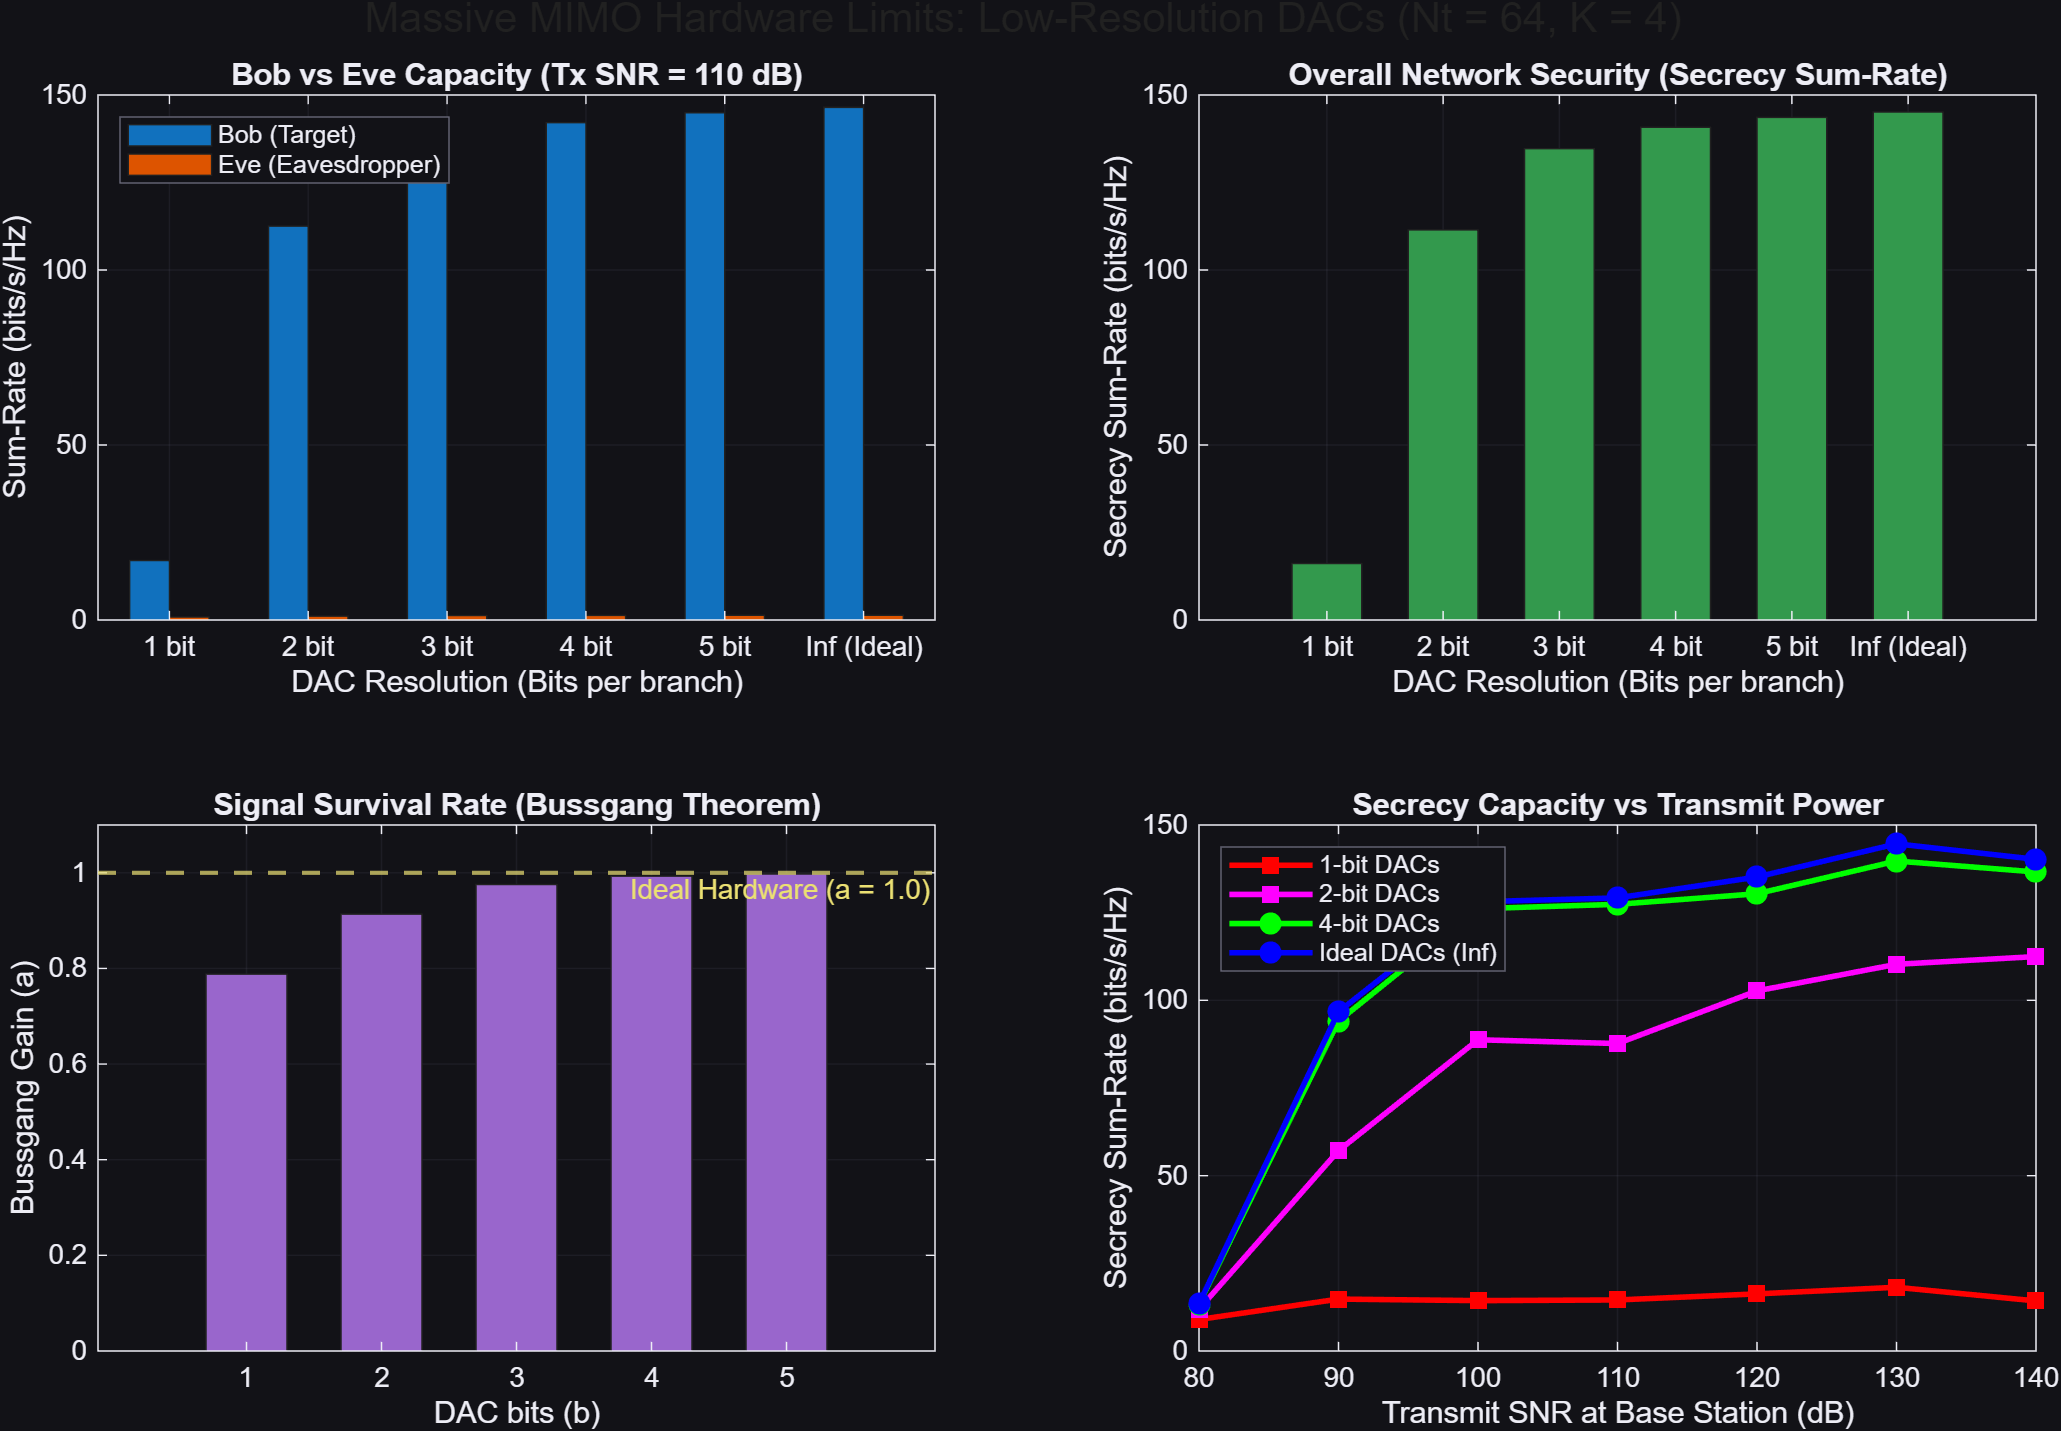
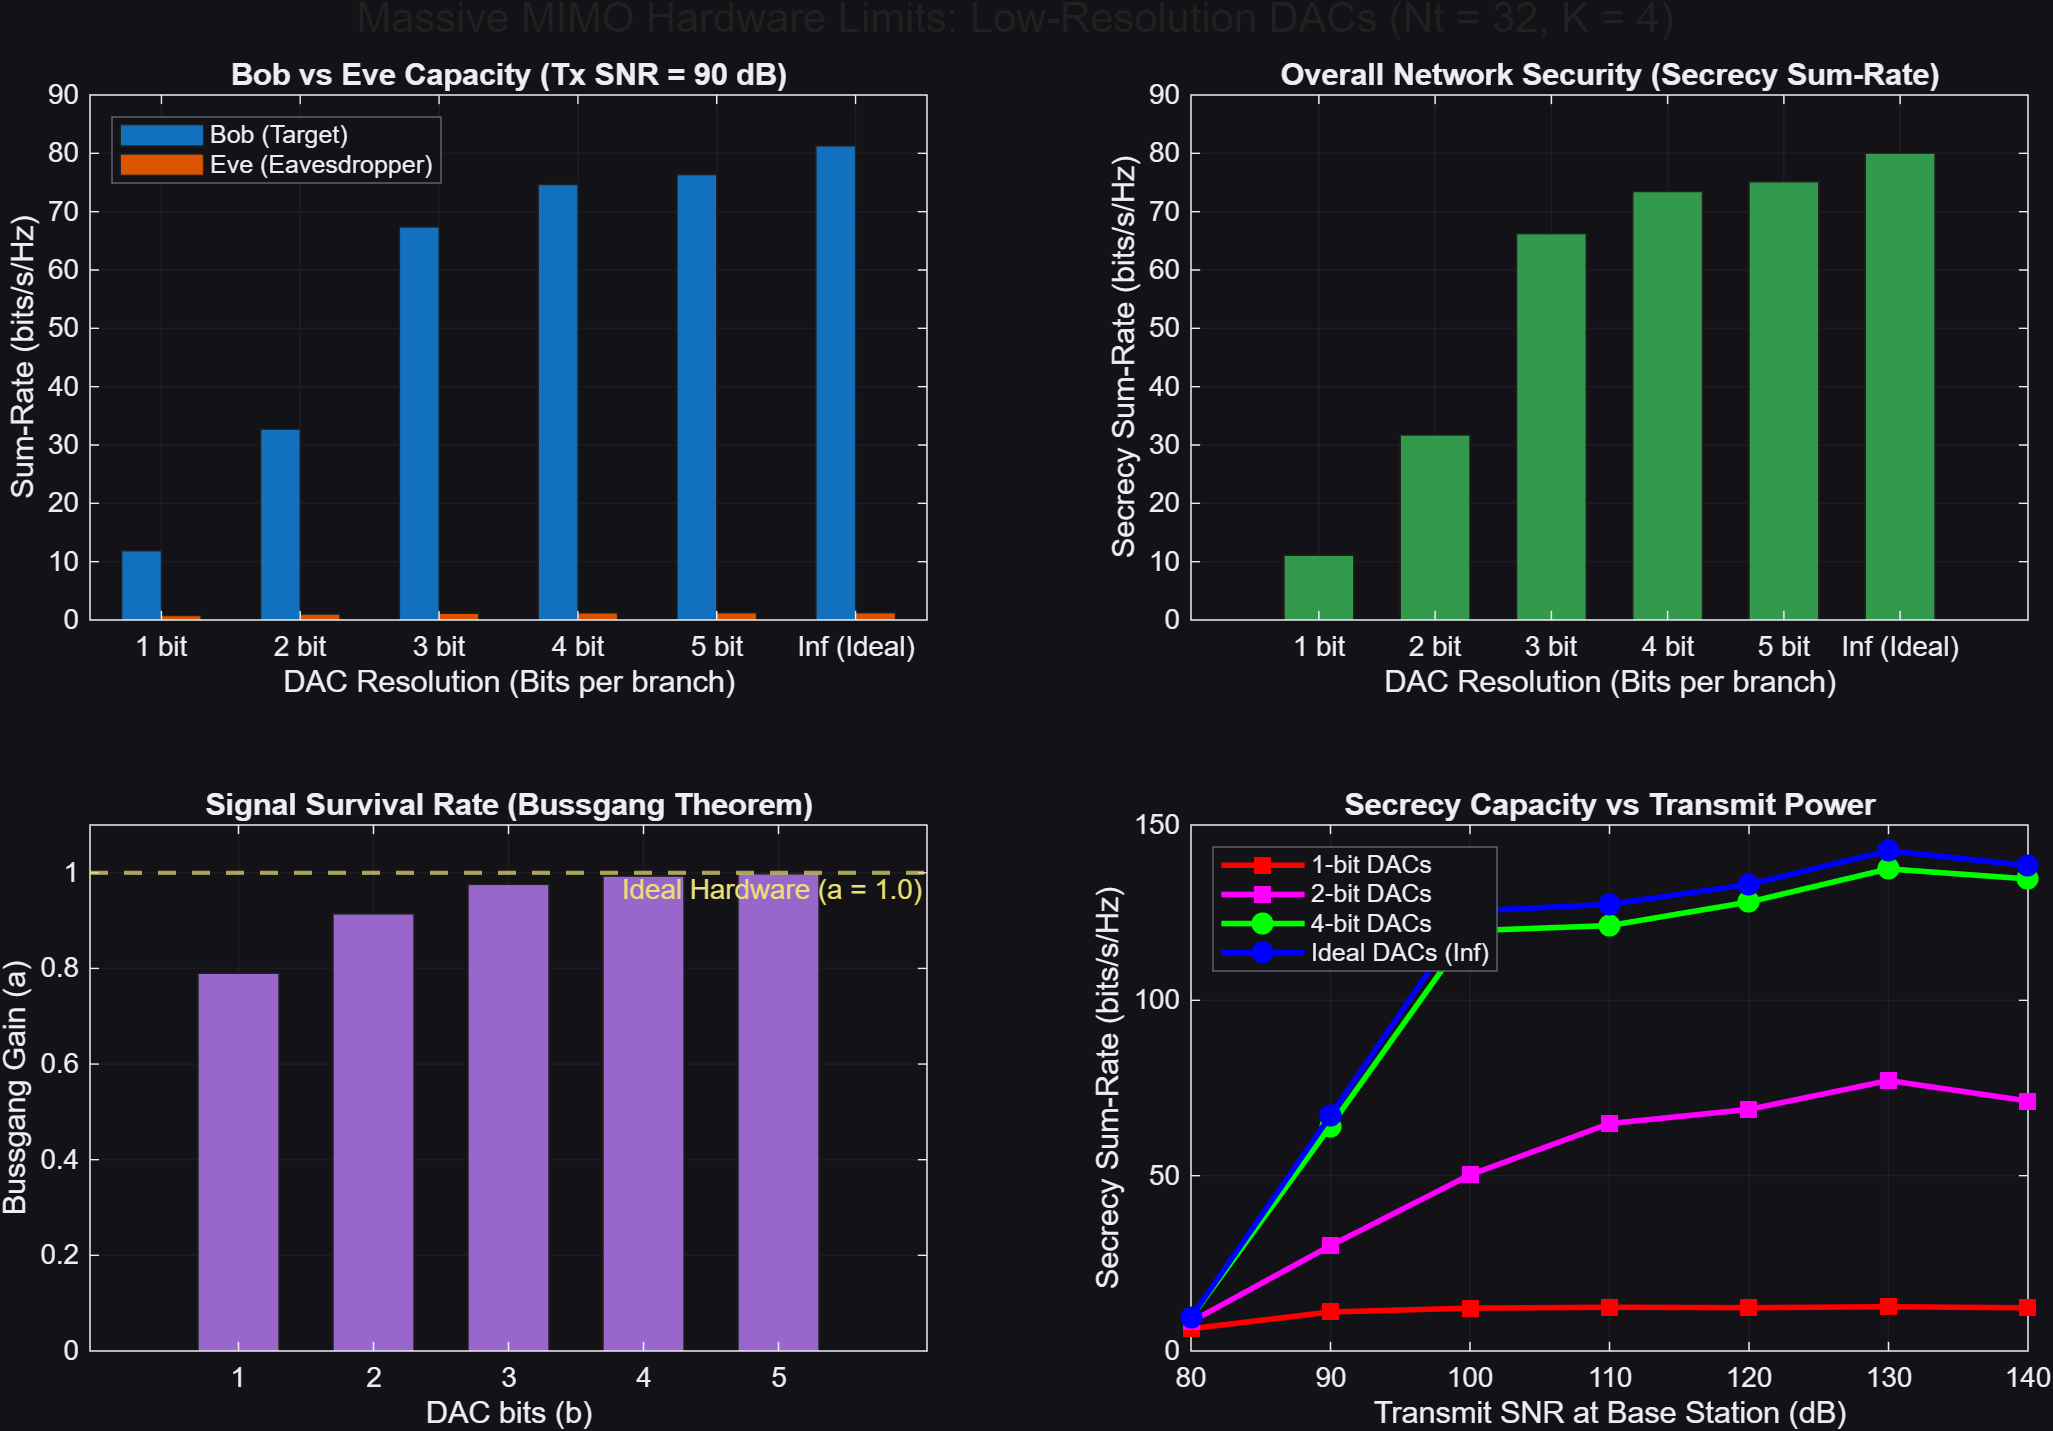
low_res_dac: topology, code, results update

diff --git a/simulations/sim_low_res_dac.m b/simulations/sim_low_res_dac.m
@@ -14,7 +14,7 @@ rng(p.rng_seed);
 b_vec       = [1 2 3 4 5 Inf];               % Rozdzielczość DAC [bity]
 b_show      = [1, 2, 4, Inf];                % Wybrane bity dla Sweepu B
 SNR_tx_vec  = 80:10:140;                     % Transmit SNR sweep [dB]
-SNR_fixed   = 110;                           % Stały SNR_tx dla Sweepu A
+SNR_fixed   = 90;                           % Stały SNR_tx dla Sweepu A
 Nt          = 32;                            % Liczba anten (Massive MIMO)
 K           = 4;                             % Liczba użytkowników
 numIter     = 40;                            % Iteracje kanału
@@ -175,6 +175,8 @@ for s_idx = 1:length(SNR_tx_vec)
 end
 R_sec_snr = R_sec_snr_acc / numIter;
 
+plot_dac_topology(dist_b, theta_bobs, dist_e, theta_e);
+
 % =========================================================================
 % --- WIZUALIZACJA --------------------------------------------------------
 % =========================================================================
@@ -268,4 +270,55 @@ end
 
 function out = ternary(cond, a, b)
     if cond, out = a; else, out = b; end
+end
+
+% =========================================================================
+% FUNKCJA POMOCNICZA: Generowanie topologii scenariusza (DAC Quantisation)
+% =========================================================================
+function plot_dac_topology(dist_b, theta_bobs, dist_e, theta_e)
+    fig_top = figure('Color', 'w', 'Position', [150 150 700 700]);
+    hold on; grid on; box on;
+    
+    % Konwersja na współrzędne kartezjańskie (BS w 0,0)
+    x_bs = 0; y_bs = 0;
+    max_d = max(dist_b, dist_e) + 15;
+    
+    % Rysowanie BS
+    p_bs = plot(x_bs, y_bs, 'k^', 'MarkerSize', 12, 'MarkerFaceColor', 'k', 'DisplayName', 'Base Station (BS)');
+    text(x_bs, y_bs - 4, 'BS (0,0)', 'HorizontalAlignment', 'center', 'Color', 'k');
+    
+    % Rysowanie Ewy
+    x_e = dist_e * sind(theta_e);
+    y_e = dist_e * cosd(theta_e);
+    p_e = plot(x_e, y_e, 'rs', 'MarkerSize', 10, 'MarkerFaceColor', 'r', 'DisplayName', 'Eve');
+    text(x_e + 2, y_e, sprintf('Eve\n(%gm, %g\\circ)', dist_e, theta_e), 'Color', 'r', 'FontSize', 9);
+    
+    % Rysowanie Bobów
+    p_b = [];
+    for k = 1:length(theta_bobs)
+        x_b = dist_b * sind(theta_bobs(k));
+        y_b = dist_b * cosd(theta_bobs(k));
+        
+        p_b = plot(x_b, y_b, 'bo', 'MarkerSize', 8, 'MarkerFaceColor', 'b');
+        text(x_b - 2.5, y_b - 2.5, sprintf('B_{%d}\n(%gm, %g\\circ)', k, dist_b, theta_bobs(k)), ...
+             'Color', 'b', 'FontSize', 8, 'HorizontalAlignment', 'right');
+    end
+    if ~isempty(p_b)
+        set(p_b, 'DisplayName', sprintf('Bobs (K=%d)', length(theta_bobs)));
+    end
+    
+    % Ustawienia osi
+    axis equal;
+    xlim([-max_d, max_d]);
+    ylim([-10, max_d]);
+    xlabel('X [m]'); ylabel('Y [m]');
+    title(sprintf('Scenario 5: Hardware Limits (K=%d Bobs, 1 Eve)', length(theta_bobs)));
+    legend([p_bs, p_b, p_e], 'Location', 'NorthWest');
+    
+    % Zapis do pliku
+    try
+        save_figure(fig_top, '../topology/topology_low_res_dac');
+    catch
+        warning('Funkcja save_figure nie jest dostępna.');
+    end
 end
